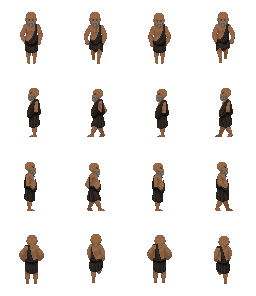
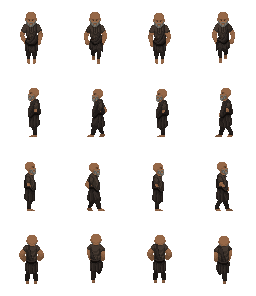
fix(aset): pakaian karakter lebih tertutup
- tokoh utama, Lelaki Tua, Tumbal Gagal: cawat diganti celana panjang + baju
- Empu Karta & Penjaga Lumbung: tubuh biasa berlengan kekar dengan celana, baju, dan kain di atasnya

diff --git a/tools/build_assets.py b/tools/build_assets.py
@@ -59,9 +59,10 @@ def build_characters():
                          ('human_arms!na.png', skin), ('human_head!nh.png', skin),
                          ('human_ears!ne.png', skin)]
     # Tokoh utama: tumbal kurus, cawat dan baju karung kusam, rambut kusut.
+    # (celana panjang + baju; sengaja tidak terbuka)
     character('tumbal.png', body(KULIT_SAWO) + [
-        ('loincloth+nl+nt.png', KAIN_COKLAT),
-        ('medieval_wide_shirt+nt+na+sb.png', KAIN_KUSAM),
+        ('plain_pants+nl-tt.png', KAIN_COKLAT),
+        ('medievalshirt+nt+nl+na+0b.png', KAIN_KUSAM),
         ('rogue_hair.png', RAMBUT_HITAM),
     ])
     # Warga desa (sementara, untuk uji NPC)
@@ -74,8 +75,13 @@ def build_characters():
     thick0 = lambda skin: [('human_legs_thick!tl.png', skin), ('human_torso_thick!tt.png', skin),
                            ('human_arms_beefy!ba.png', skin), ('human_head!nh.png', skin),
                            ('human_ears!ne.png', skin)]
-    character('empu_karta.png', thick0((150, 104, 72)) + [
-        ('great_kilt+tt+ba-sl.png', (52, 44, 40)),
+    kekar = lambda skin: [('human_legs!nl.png', skin), ('human_torso!nt.png', skin),
+                          ('human_arms_beefy!ba.png', skin), ('human_head!nh.png', skin),
+                          ('human_ears!ne.png', skin)]
+    character('empu_karta.png', kekar((150, 104, 72)) + [
+        ('plain_pants+nl-tt.png', (46, 40, 36)),
+        ('medievalshirt+nt+nl+ba+0b.png', (70, 58, 50)),
+        ('great_kilt+nt+ba-sl.png', (52, 44, 40)),
         ('full_beard.png', (120, 116, 108)),
     ])
     # Pedagang keliling: celana longgar, baju lurik, ikat kepala merah tua
@@ -86,7 +92,8 @@ def build_characters():
     ])
     # Lelaki Tua: tumbal lama yang dibiarkan membusuk di sel
     character('lelaki_tua.png', body((150, 128, 104)) + [
-        ('loincloth+nl+nt.png', (84, 70, 52)),
+        ('plain_pants+nl-tt.png', (84, 70, 52)),
+        ('medievalshirt+nt+nl+na+0b.png', (110, 104, 92)),
         ('full_beard.png', (190, 186, 176)),
         ('short_receding.png', (190, 186, 176)),
     ])
@@ -99,14 +106,17 @@ def build_characters():
     # Musuh di peta (sprite simbol)
     KULIT_MAYAT = (128, 138, 112)
     character('tumbal_gagal.png', body(KULIT_MAYAT) + [
-        ('loincloth+nl+nt.png', (70, 60, 46)),
+        ('plain_pants+nl-tt.png', (70, 60, 46)),
+        ('medievalshirt+nt+nl+na+0b.png', (92, 86, 70)),
         ('short_receding.png', (40, 40, 36)),
     ])
     thick = lambda skin: [('human_legs_thick!tl.png', skin), ('human_torso_thick!tt.png', skin),
                           ('human_arms_beefy!ba.png', skin), ('human_head!nh.png', skin),
                           ('human_ears!ne.png', skin)]
-    character('penjaga_lumbung.png', thick((150, 150, 132)) + [
-        ('great_kilt+tt+ba-sl.png', (60, 40, 36)),
+    character('penjaga_lumbung.png', kekar((150, 150, 132)) + [
+        ('plain_pants+nl-tt.png', (48, 36, 32)),
+        ('medievalshirt+nt+nl+ba+0b.png', (64, 54, 46)),
+        ('great_kilt+nt+ba-sl.png', (60, 40, 36)),
         ('shoulder_pads+ba.png', (90, 70, 50)),
         ('nordic_helmet.png', (120, 96, 72)),
     ])
